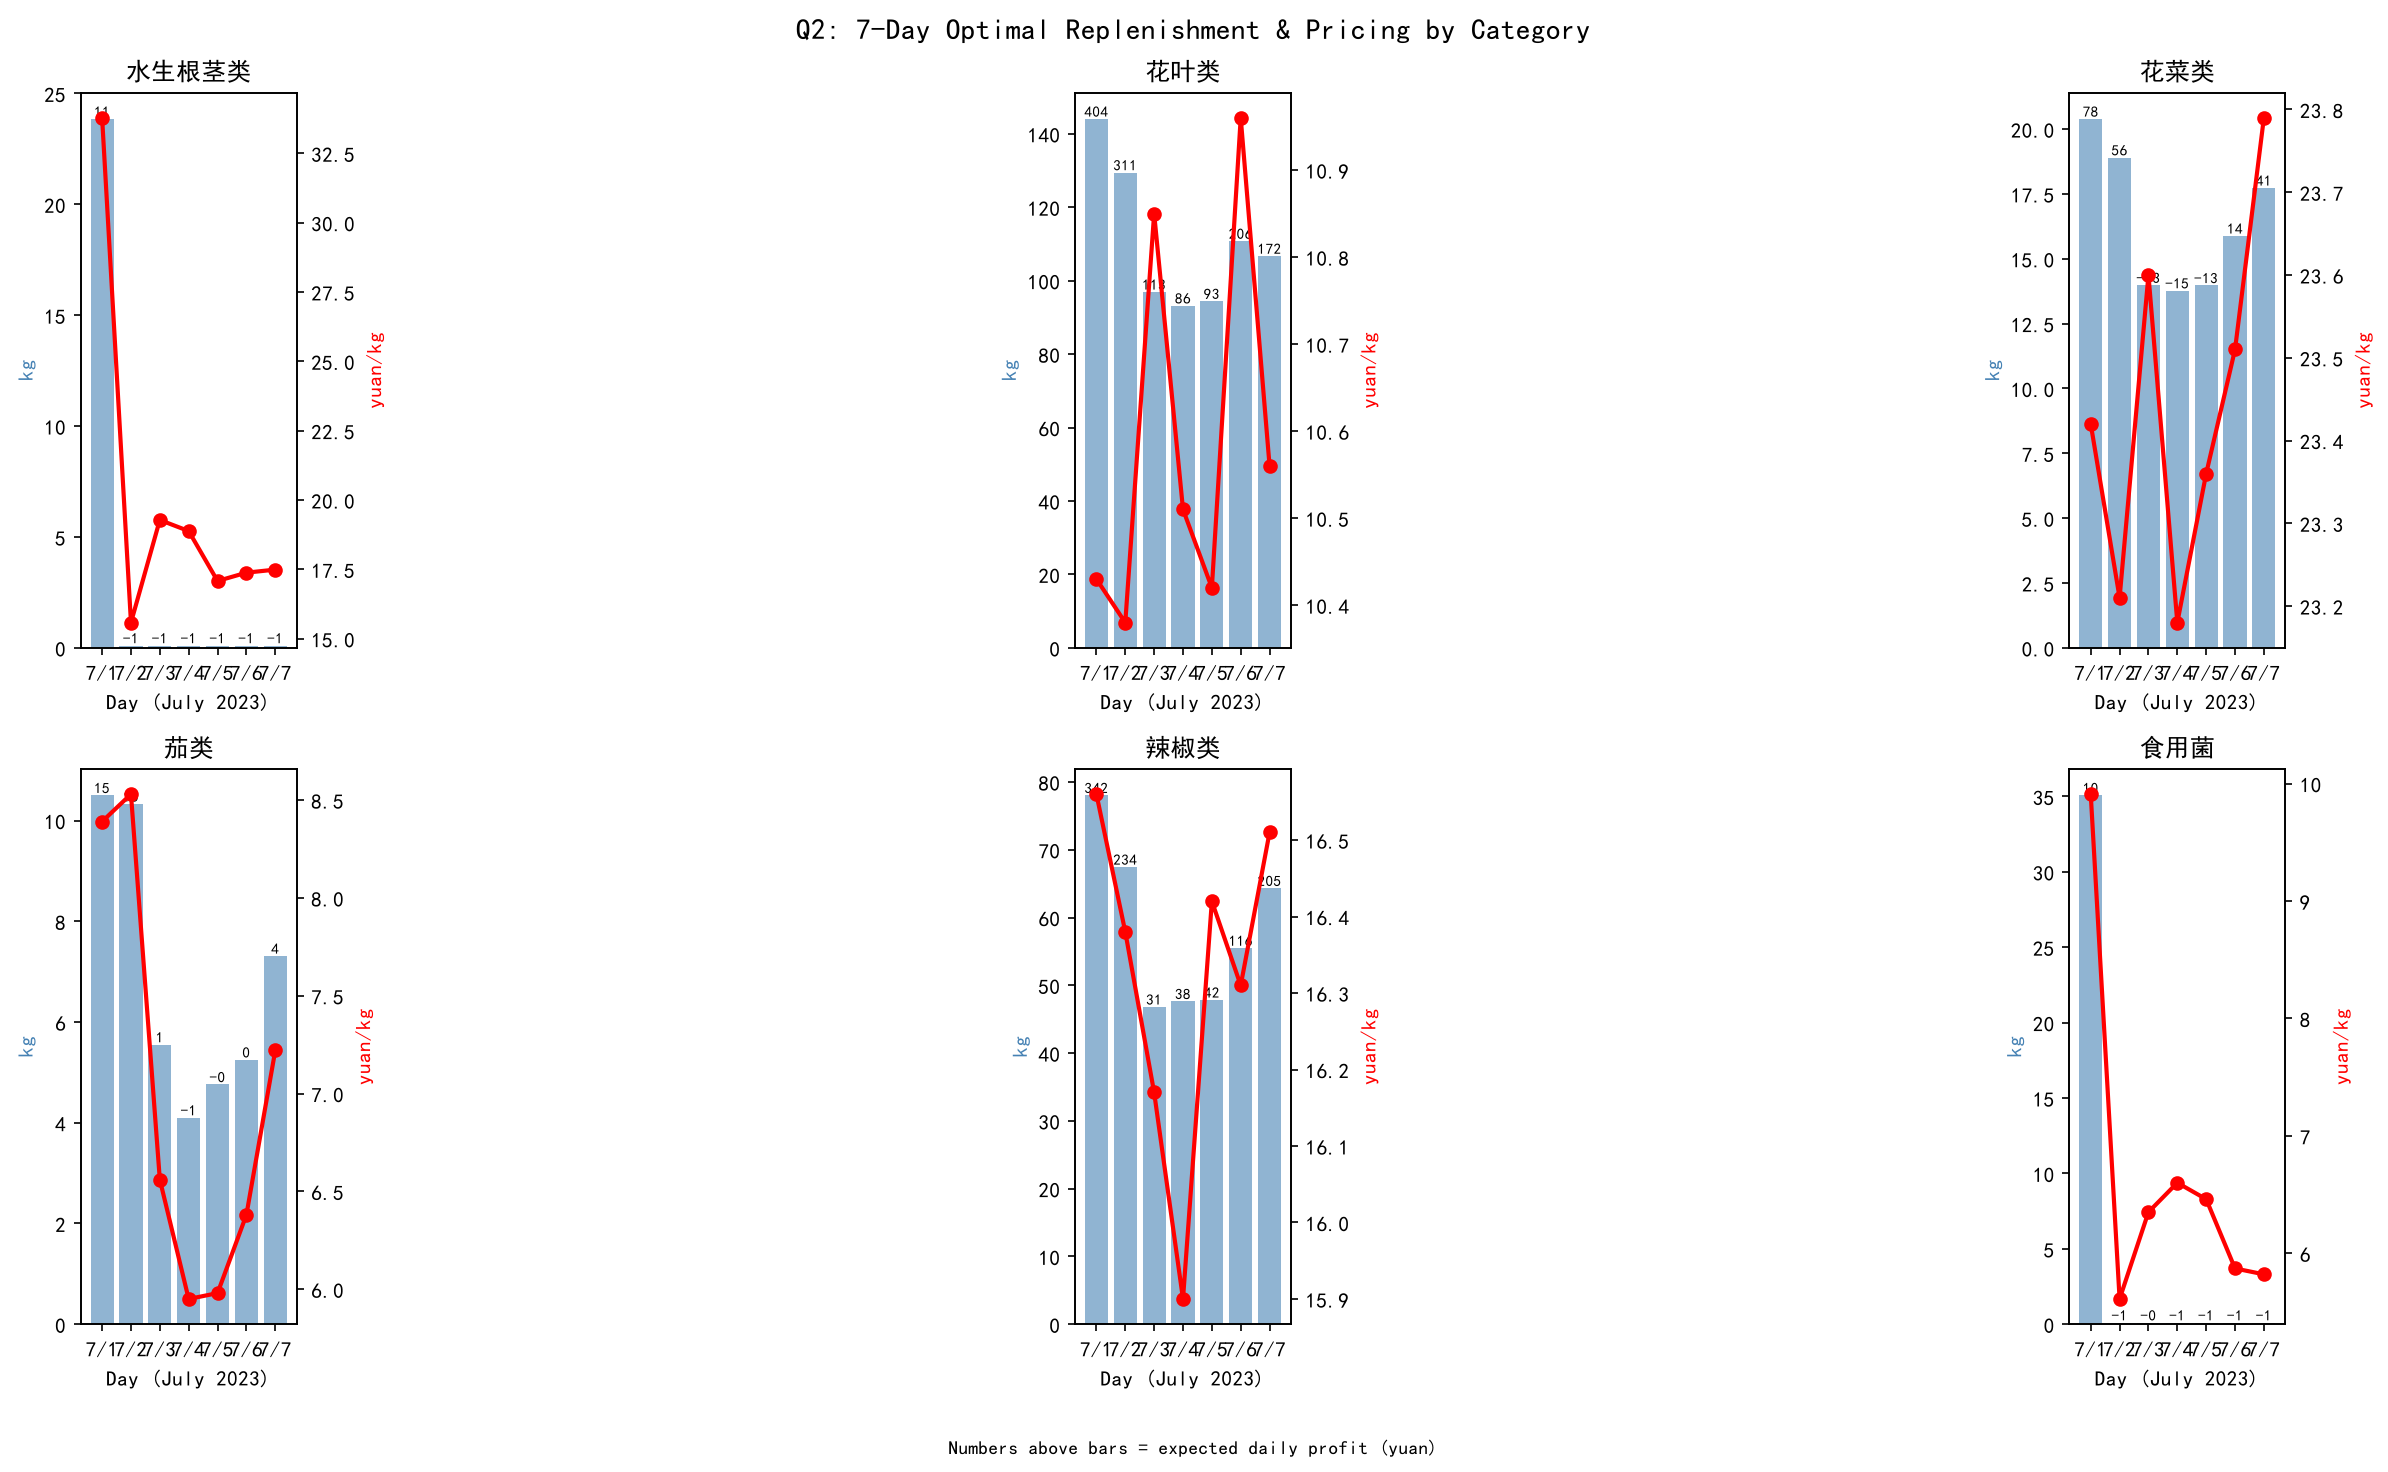
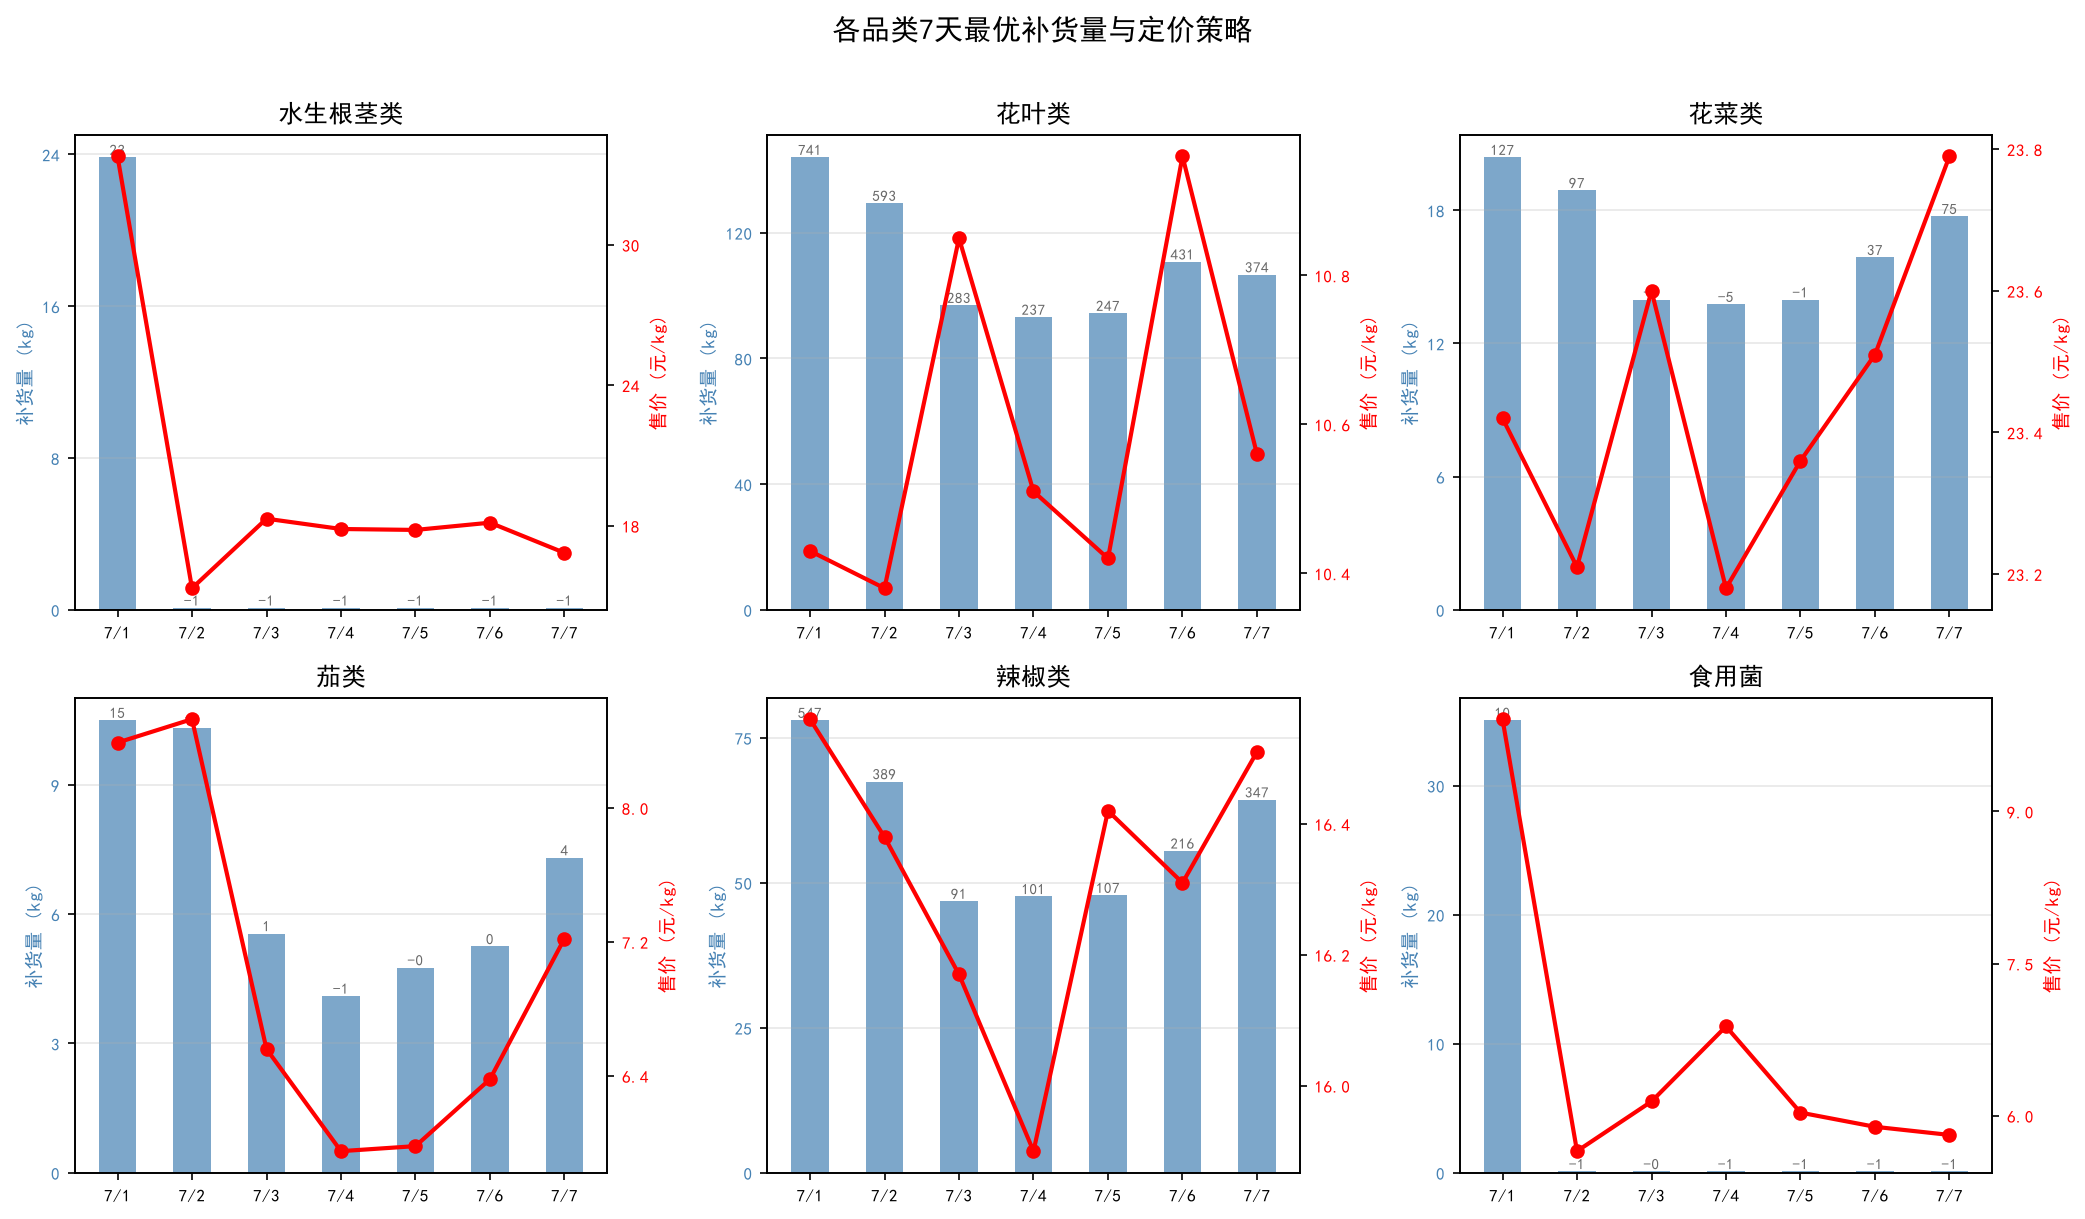
重新生成图5，2x3布局14x8英寸，正常比例

diff --git a/paper/main.tex b/paper/main.tex
@@ -274,7 +274,7 @@ $\mathbf{20}$个有向边（$20/30 = 66.7\%$）显著，品类间存在广泛的
 
 \begin{figure}[H]
 \centering
-\includegraphics[width=0.95\textwidth,height=0.28\textheight,keepaspectratio=false]{fig_q2_plan.png}
+\includegraphics[width=\textwidth]{fig_q2_plan.png}
 \caption{问题二分析流程：弹性估计-需求预测-报童优化-敏感性实验}\label{fig:q2flow}
 \end{figure}
 
